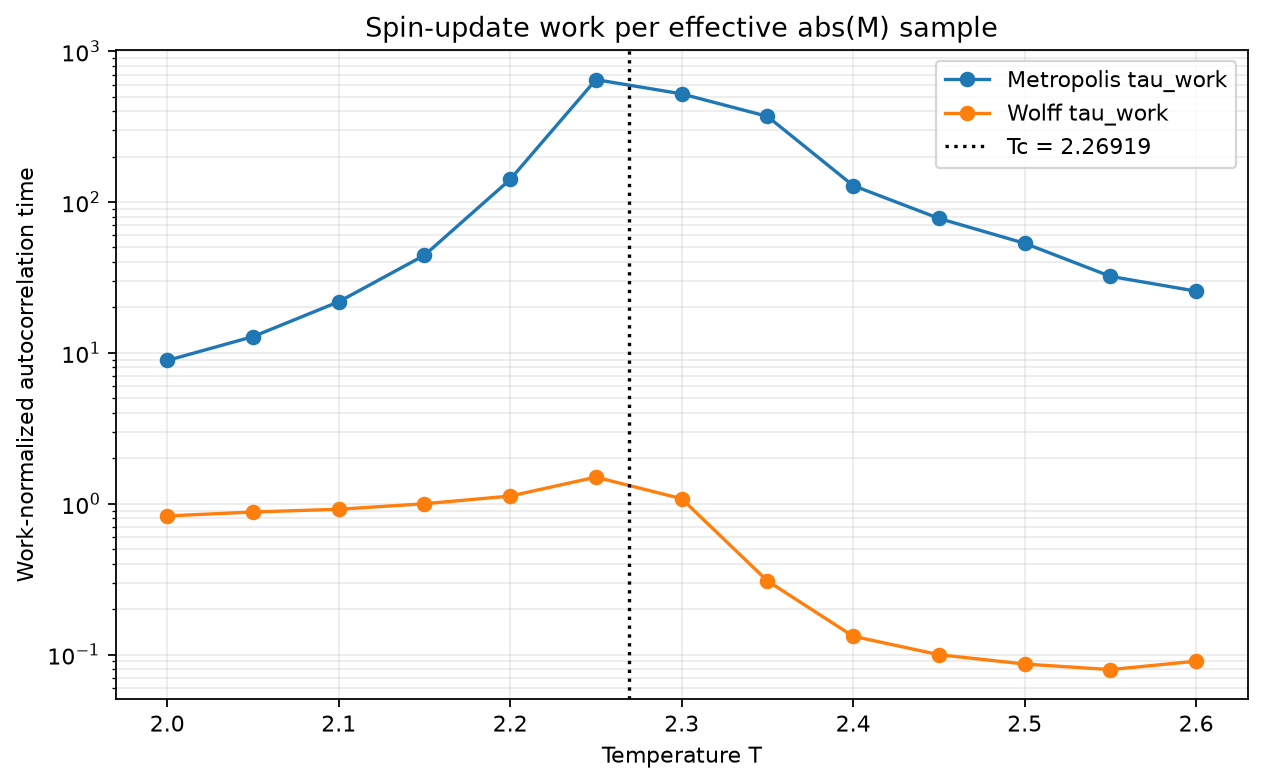
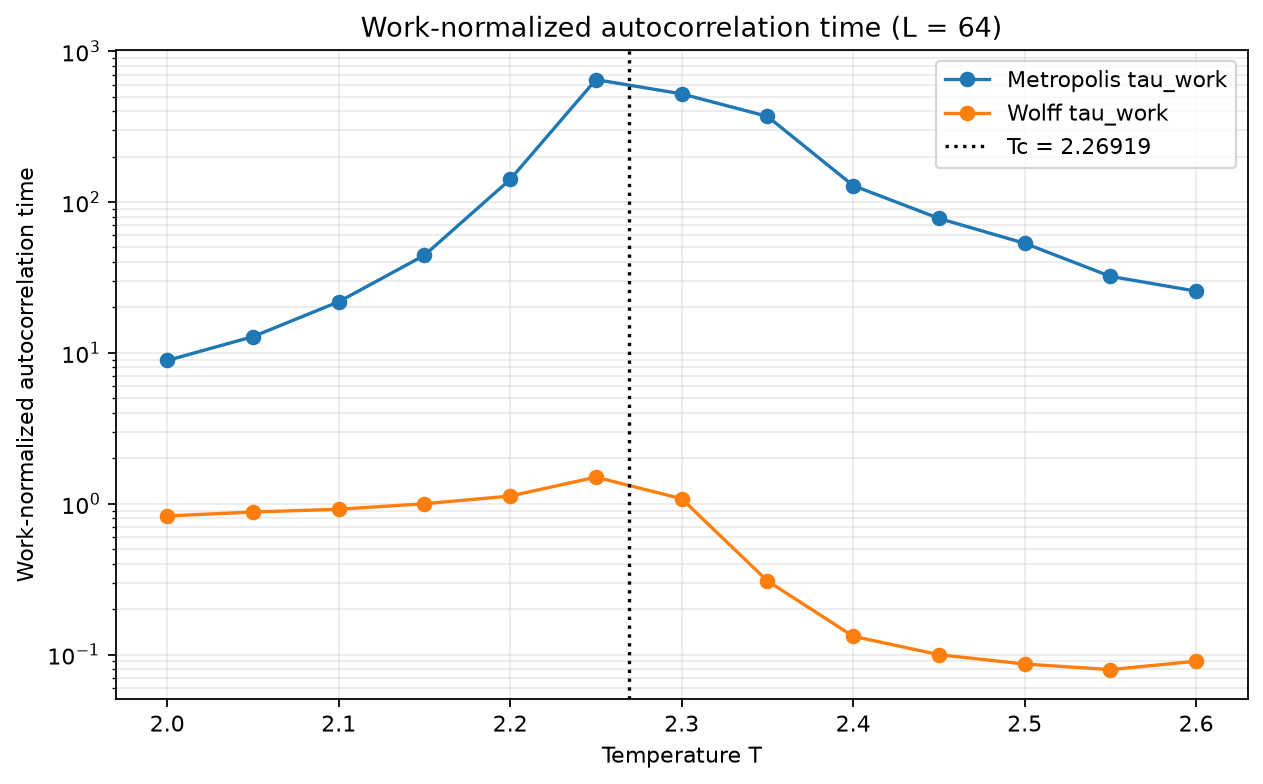
fix: clarify work-normalized tau title

Changed region(s): [[0.2779, 0.0, 0.8029, 0.0612]]

diff --git a/week3/scripts/compare.py b/week3/scripts/compare.py
@@ -300,7 +300,7 @@ def efficiency_analysis() -> None:
     axis.set_yscale("log")
     axis.set_xlabel("Temperature T")
     axis.set_ylabel("Work-normalized autocorrelation time")
-    axis.set_title("Spin-update work per effective abs(M) sample")
+    axis.set_title("Work-normalized autocorrelation time (L = 64)")
     axis.grid(alpha=0.25, which="both")
     axis.legend()
     figure.tight_layout()
